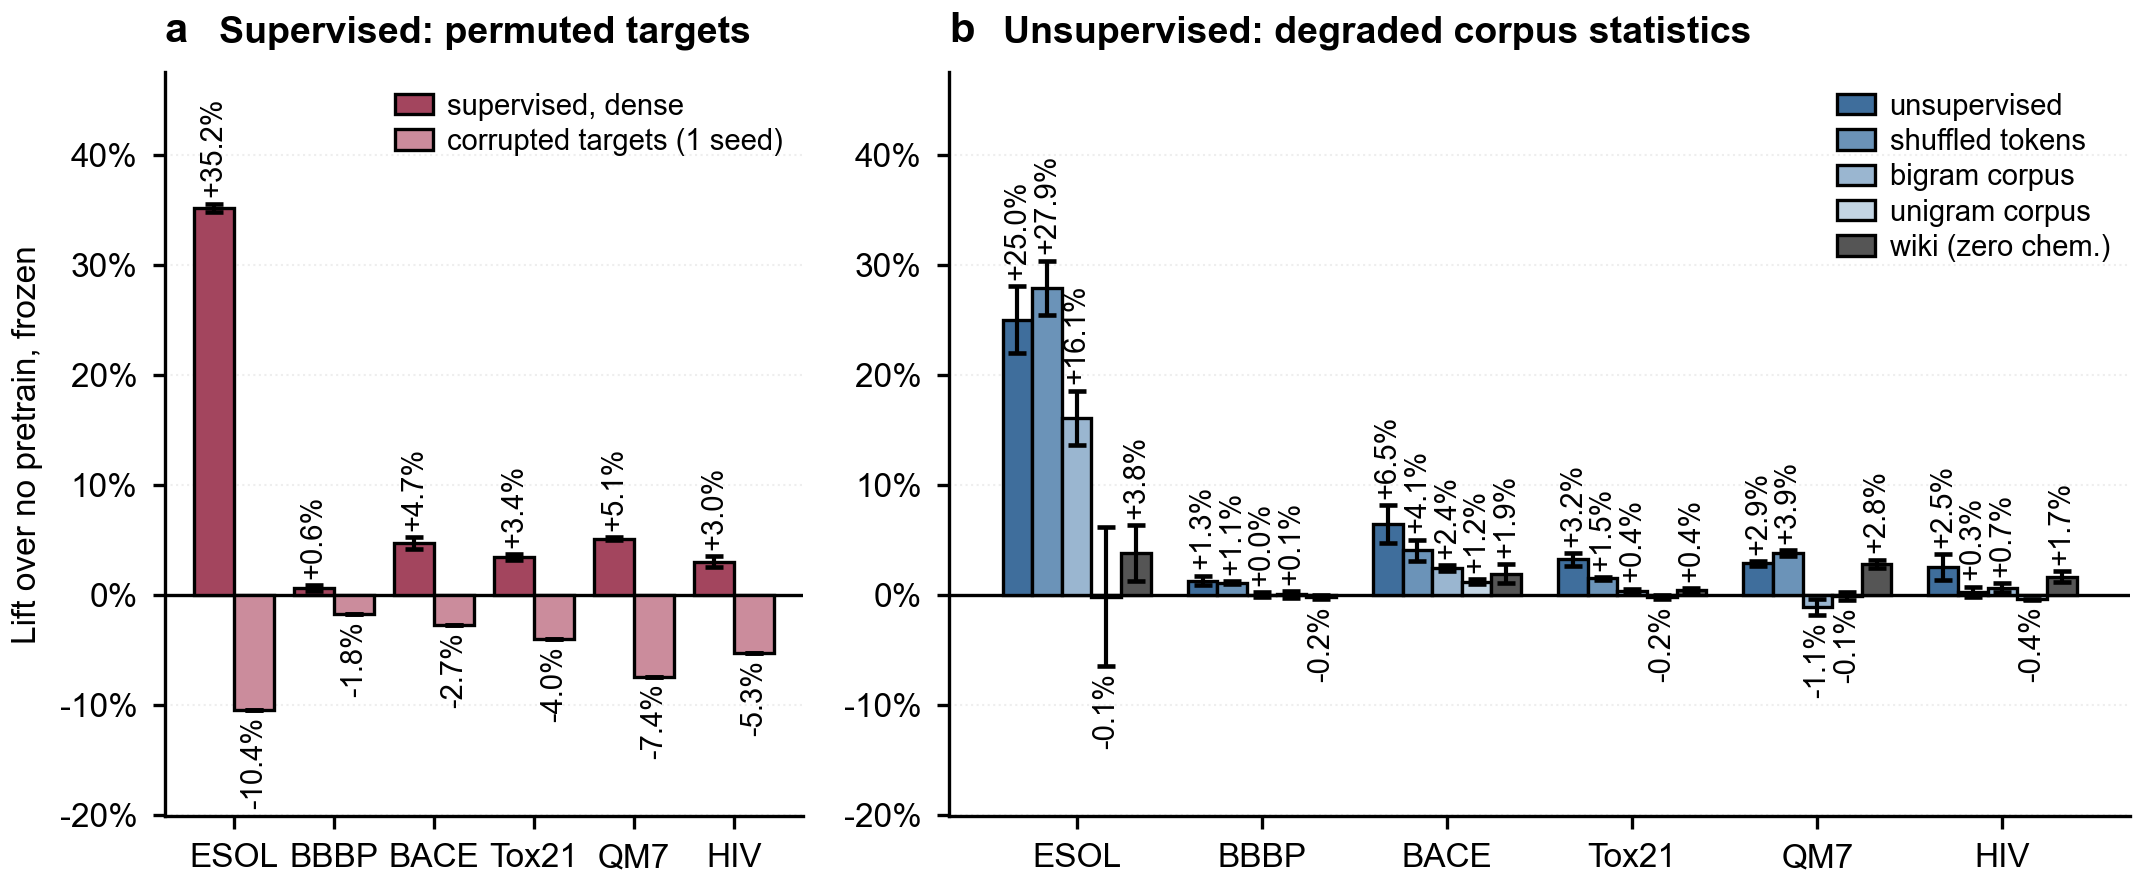
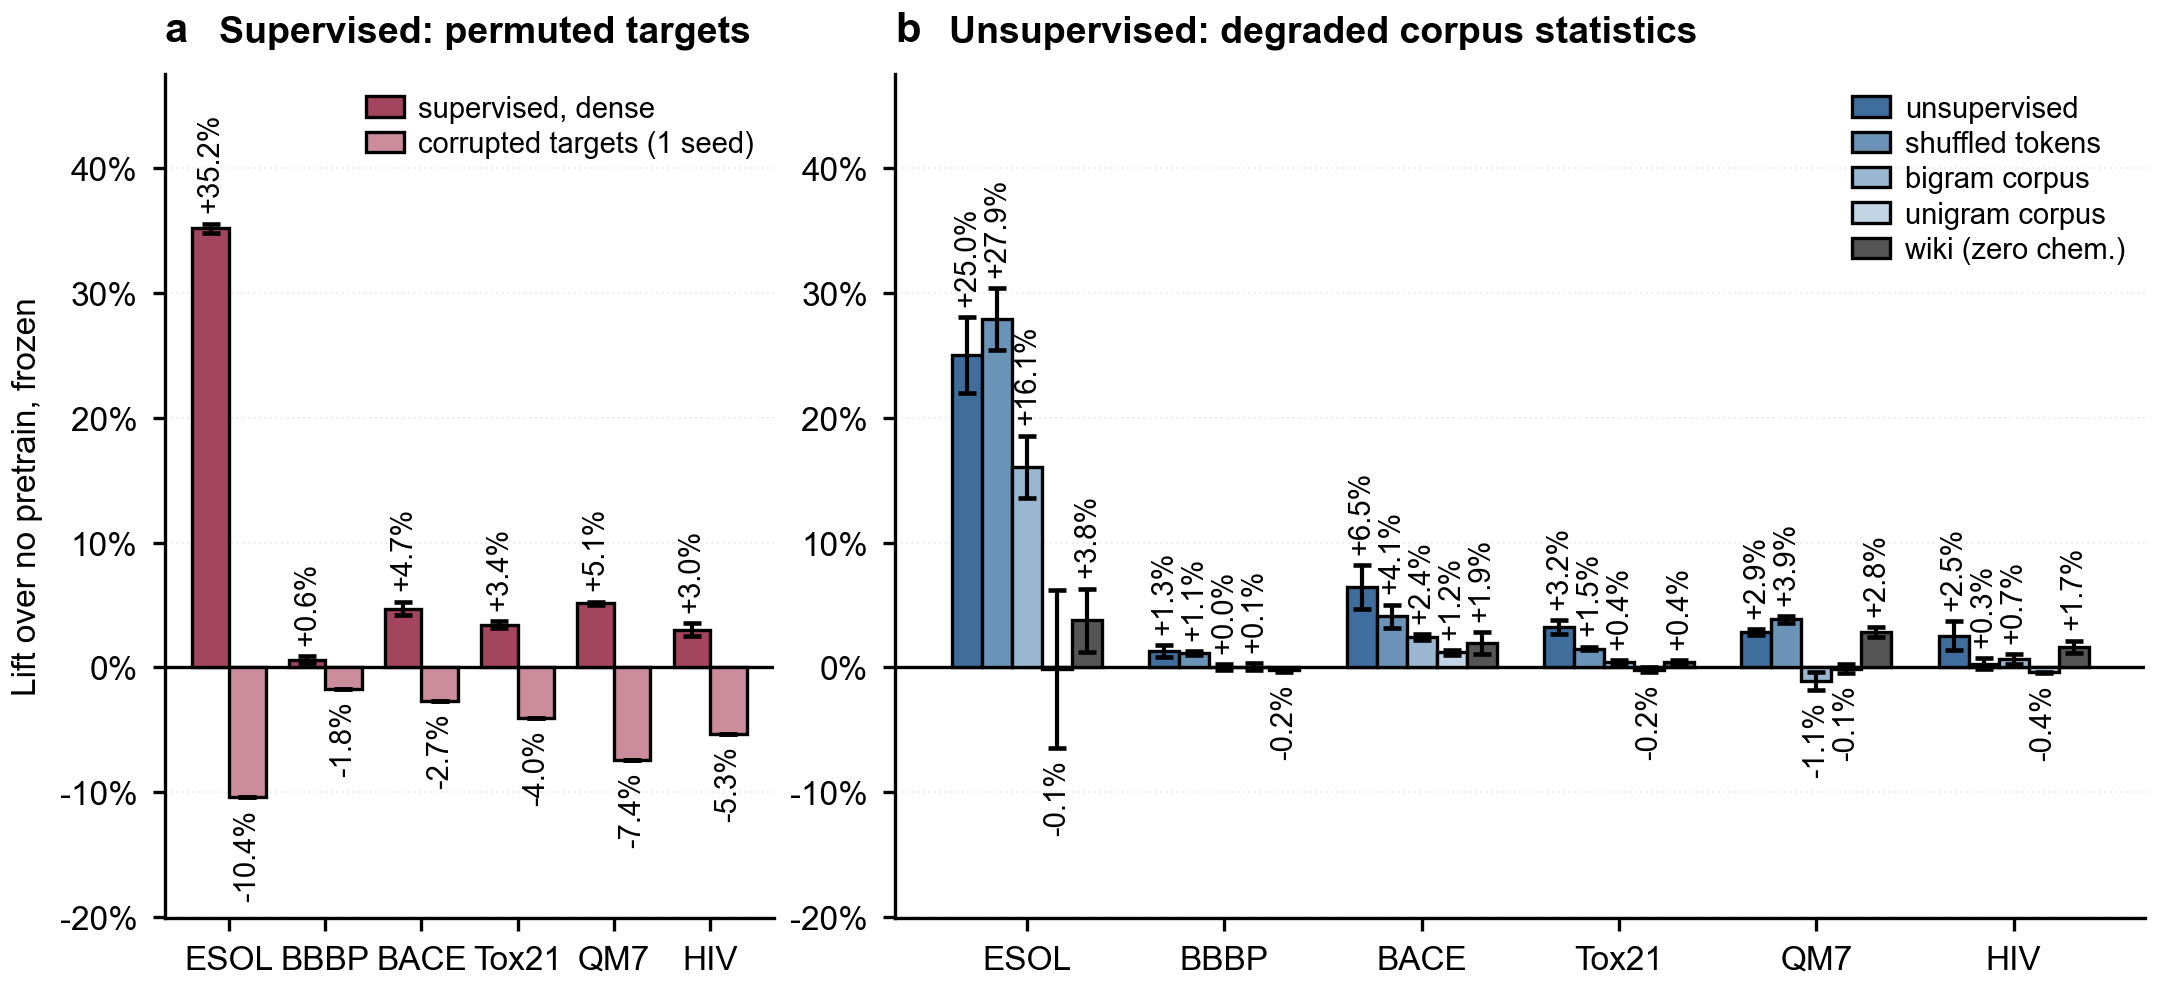
Fig E: uncram the value labels
Panel b packs 5 bars per task group against panel a's 2, so its rotated percentage labels had far
less clearance than a's. Widened b relative to a (1:2.05), narrowed the group width 0.80 -> 0.76
and pushed each label a little further off its whisker. Sizing the panels purely by bar count
(1:2.5) fixed b but starved a of room for six task labels, so the committed ratio is the
compromise where neither collides.

Also adds scripts/build_figSIb_table.py (vocab/tokenizer SI table) -- figure to follow.

diff --git a/scripts/build_figSIb_table.py b/scripts/build_figSIb_table.py
@@ -1,0 +1,126 @@
+"""SI-b — build the tokenizer/vocabulary-size table (the figure's ONLY input).
+
+Wave `climb_v2_vocab` (README §7.2): two tokenizer families — byte-level BPE (the main-paper
+family) and Unigram-LM — each at four reachable, distinct vocabulary sizes. SMILES tokenization
+saturates, so those four are the whole reachable range. One MLM-only encoder per tokenizer, all at
+2M forward passes, same corpus, same frozen-probe eval as everything else.
+
+CONFOUND, disclosed not removed: the embedding auto-sizes to the vocabulary, so parameter count
+grows with vocab (~41.0M -> 47.1M). Vocabulary size and embedding parameters cannot be separated
+in this design.
+
+COMPUTE NOTE: these encoders are 2M FP, NOT the 8M of the mainline arms, so their absolute values
+are NOT comparable to Fig A2/B. The figure deliberately carries no mainline reference line for
+that reason — the comparison that matters here is BPE vs Unigram and across vocab size, all at
+matched compute.
+
+Panels: the canonical six. CBS has no vocab-wave run for any arm and is emitted empty.
+
+  MoleculeACE  chemeleon_suite/moleculeace/<run>/results.csv  -> macro RMSE over 30 targets,
+               mean over the 3 eval seeds; sd = SD across the 3 eval-seed macro-means
+  hERG         chemeleon_suite/polaris/<run>/polaris_scores.csv (tdcommons/herg, roc_auc)
+               -> mean over the 3 eval seeds; sd = SD across them
+  BACE/Tox21/QM7  climb_v2_vocab/vocab_cv_summary.csv -> 5-fold CV mean; sd = fold_std
+  CBS          not run
+
+ERROR BARS ARE THE POINT of this figure. The finding is a near-null — vocabulary size moves the
+frozen-probe score by less than the replicate noise almost everywhere — which cannot be stated
+without showing that noise. This is why SI-b carries error bars while Figs B and F do not.
+
+Writes: figure_data/figSI/figSIb_vocab.csv
+Run:    python3 scripts/build_figSIb_table.py
+"""
+from __future__ import annotations
+
+import csv
+from pathlib import Path
+
+import numpy as np
+import pandas as pd
+
+ROOT = Path(__file__).resolve().parent.parent
+FD = ROOT / "figure_data"
+OUT = FD / "figSI" / "figSIb_vocab.csv"
+
+# (run dir, family, actual vocabulary size)
+RUNS = [("bpe_261", "BPE", 261), ("bpe_1000", "BPE", 1000),
+        ("bpe_3000", "BPE", 3000), ("bpe_12000", "BPE", 12000),
+        ("unigram_261", "Unigram", 261), ("unigram_700", "Unigram", 700),
+        ("unigram_1200", "Unigram", 1200), ("unigram_3000", "Unigram", 3000)]
+
+MOL_PANELS = {"BACE": "roc_auc", "Tox21": "roc_auc", "QM7": "rmse"}
+HERG = ("tdcommons/herg", "roc_auc")
+PANELS = ["MoleculeACE", "CBS", "BACE", "hERG", "Tox21", "QM7"]
+HIGHER = {"MoleculeACE": 0, "CBS": 1, "BACE": 1, "hERG": 1, "Tox21": 1, "QM7": 0}
+
+
+def mace(run):
+    """(macro RMSE over 30 targets, SD across the 3 eval-seed macro-means, n)."""
+    p = FD / "chemeleon_suite" / "moleculeace" / run / "results.csv"
+    if not p.exists():
+        return None
+    d = pd.read_csv(p)
+    o = d[(d.subset == "overall") & (d.metric == "rmse")]
+    per_seed = o.groupby("seed").value.mean()
+    return float(per_seed.mean()), float(per_seed.std(ddof=1)), len(per_seed)
+
+
+def herg(run):
+    p = FD / "chemeleon_suite" / "polaris" / run / "polaris_scores.csv"
+    if not p.exists():
+        return None
+    d = pd.read_csv(p)
+    v = d[(d.task == HERG[0]) & (d.metric == HERG[1])].value.astype(float)
+    if not len(v):
+        return None
+    return float(v.mean()), float(v.std(ddof=1)), len(v)
+
+
+def main() -> None:
+    cv = pd.read_csv(FD / "climb_v2_vocab" / "vocab_cv_summary.csv")
+    rows = []
+    for run, family, vocab in RUNS:
+        def add(panel, res, n_label):
+            if res is None:
+                return
+            m, sd, n = res
+            rows.append(dict(panel=panel, higher_better=HIGHER[panel], family=family,
+                             vocab=vocab, run=run, value=round(m, 6),
+                             sd=("" if not np.isfinite(sd) else round(sd, 6)),
+                             n=n, n_kind=n_label))
+
+        add("MoleculeACE", mace(run), "eval seeds")
+        add("hERG", herg(run), "eval seeds")
+        for panel, metric in MOL_PANELS.items():
+            g = cv[(cv.run == run) & (cv.dataset == panel) & (cv.metric == metric)]
+            if len(g):
+                add(panel, (float(g["mean"].iloc[0]), float(g.fold_std.iloc[0]), 5), "CV folds")
+
+    OUT.parent.mkdir(parents=True, exist_ok=True)
+    cols = ["panel", "higher_better", "family", "vocab", "run", "value", "sd", "n", "n_kind"]
+    with open(OUT, "w", newline="") as fh:
+        w = csv.DictWriter(fh, fieldnames=cols)
+        w.writeheader()
+        w.writerows(rows)
+    d = pd.DataFrame(rows)
+    empty = [p for p in PANELS if p not in set(d.panel)]
+    print(f"wrote {OUT.relative_to(ROOT)}  {len(rows)} rows")
+    print(f"panels with no vocab-wave run (drawn empty): {', '.join(empty) or 'none'}")
+
+    # is any vocab effect larger than the replicate noise it sits in?
+    print("\nspread across vocab sizes vs the median replicate SD (the near-null test):")
+    print(f"   {'panel':<12}{'family':<9}{'min':>10}{'max':>10}{'range':>10}{'median sd':>11}  verdict")
+    for panel in PANELS:
+        for fam in ("BPE", "Unigram"):
+            g = d[(d.panel == panel) & (d.family == fam)]
+            if len(g) < 2:
+                continue
+            rng = g.value.max() - g.value.min()
+            sd = pd.to_numeric(g.sd, errors="coerce").median()
+            verdict = "within noise" if rng <= sd else f"{rng/sd:.1f}x noise"
+            print(f"   {panel:<12}{fam:<9}{g.value.min():>10.4f}{g.value.max():>10.4f}"
+                  f"{rng:>10.4f}{sd:>11.4f}  {verdict}")
+
+
+if __name__ == "__main__":
+    main()

diff --git a/figures/fig_E.py b/figures/fig_E.py
@@ -85,7 +85,7 @@ PANELS = [
 def draw(fig, ax, d, series, tag, subtitle, ylim):
     x = np.arange(len(TASKS))
     n = len(series)
-    w = 0.80 / n
+    w = 0.76 / n
     for i, (key, label, colour) in enumerate(series):
         s = d[d.arm == key].set_index("dataset")
         ys = [s.lift_pct.get(t, np.nan) for t in TASKS]
@@ -101,7 +101,7 @@ def draw(fig, ax, d, series, tag, subtitle, ylim):
         for xi, v, e in zip(x + off, ys, es):
             if not np.isfinite(v):
                 continue
-            pad = e + 0.6
+            pad = e + 0.9
             ax.text(xi, v + pad if v >= 0 else v - pad, f"{0.0 if abs(v) < 0.05 else v:+.1f}%",
                     rotation=90, ha="center", va="bottom" if v >= 0 else "top",
                     fontsize=FS["annot"], clip_on=False, zorder=4)
@@ -136,13 +136,17 @@ def main():
     sp = hi - lo
     ylim = (lo - 0.21 * sp, hi + 0.26 * sp)          # headroom for the vertical value labels
 
-    fig, axes = plt.subplots(1, 2, figsize=(STYLE["col2"], 3.1),
-                             gridspec_kw=dict(width_ratios=[1.0, 1.85], wspace=0.16))
+    # Panel b packs 5 bars per task group against panel a's 2, so sizing the panels purely by bar
+    # count starves panel a of room for its six task labels. This ratio is the compromise: b gets
+    # enough width that its rotated value labels clear each other, a keeps enough that "Tox21" and
+    # "BBBP" do not collide.
+    fig, axes = plt.subplots(1, 2, figsize=(STYLE["col2"], 3.45),
+                             gridspec_kw=dict(width_ratios=[1.0, 2.05], wspace=0.13))
     for ax, (panel, tag, subtitle, series) in zip(axes, PANELS):
         draw(fig, ax, d[d.panel == panel], series, tag, subtitle, ylim)
     axes[0].set_ylabel("Lift over no pretrain, frozen")
 
-    fig.subplots_adjust(top=0.89, bottom=0.09, left=0.085, right=0.995)
+    fig.subplots_adjust(top=0.90, bottom=0.085, left=0.078, right=0.995)
     save(fig, "figE")
     plt.close(fig)
 
